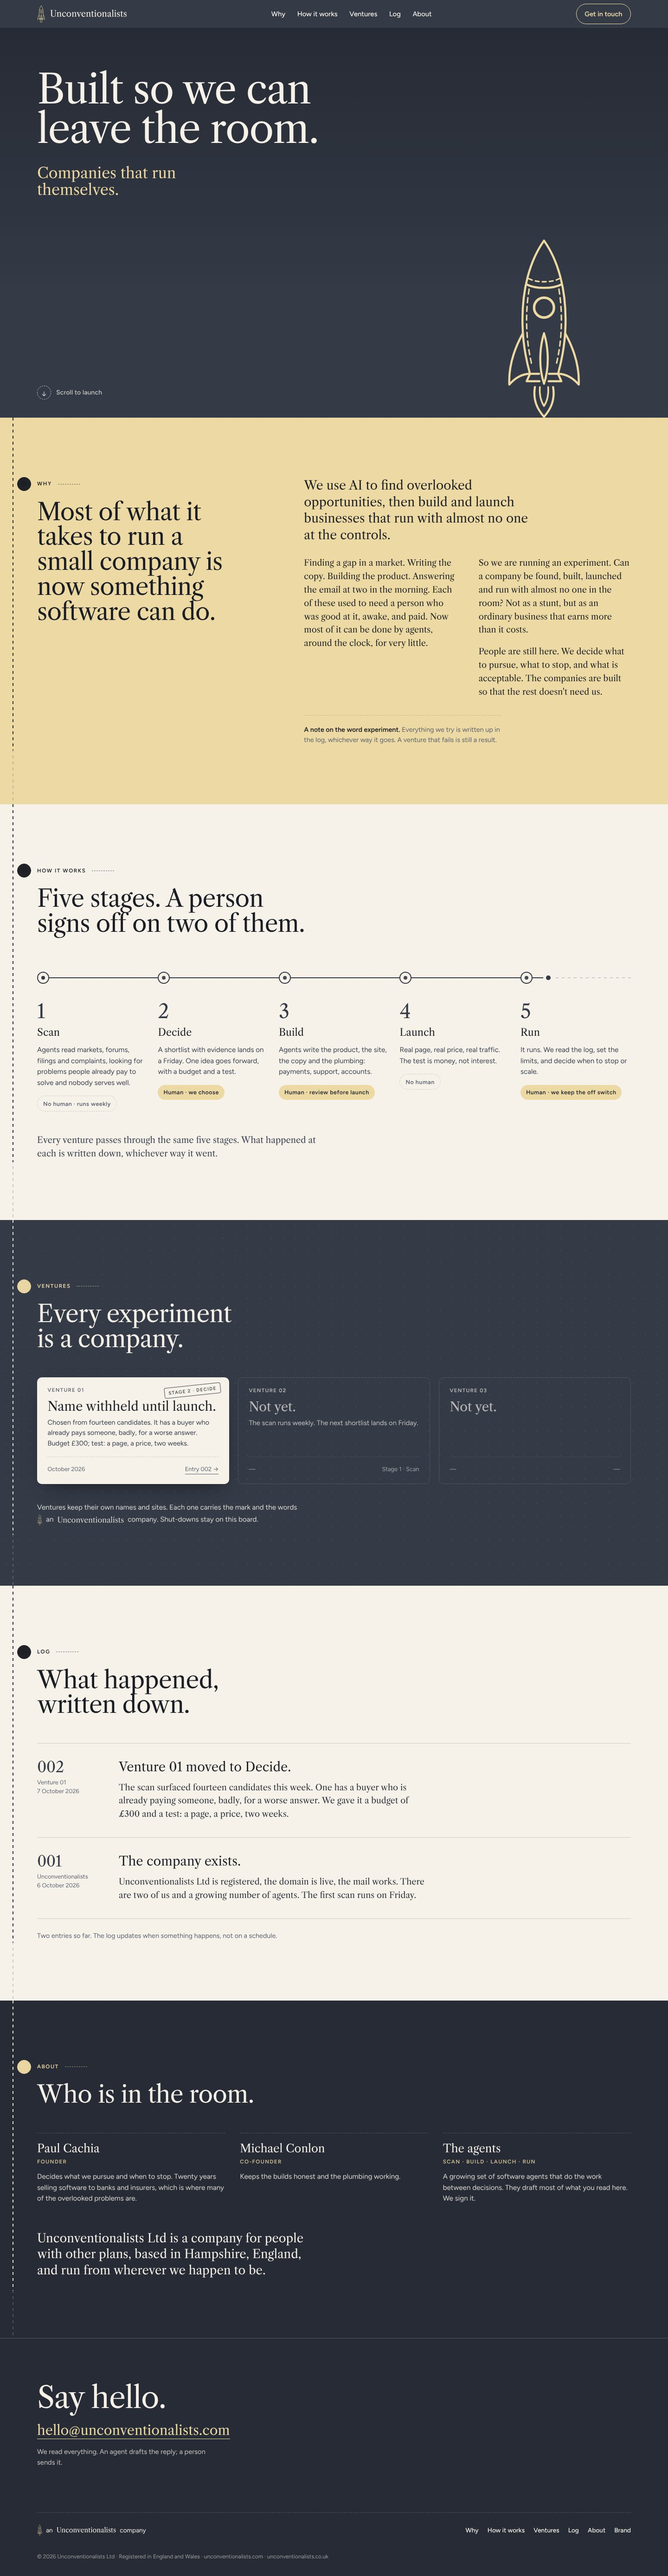
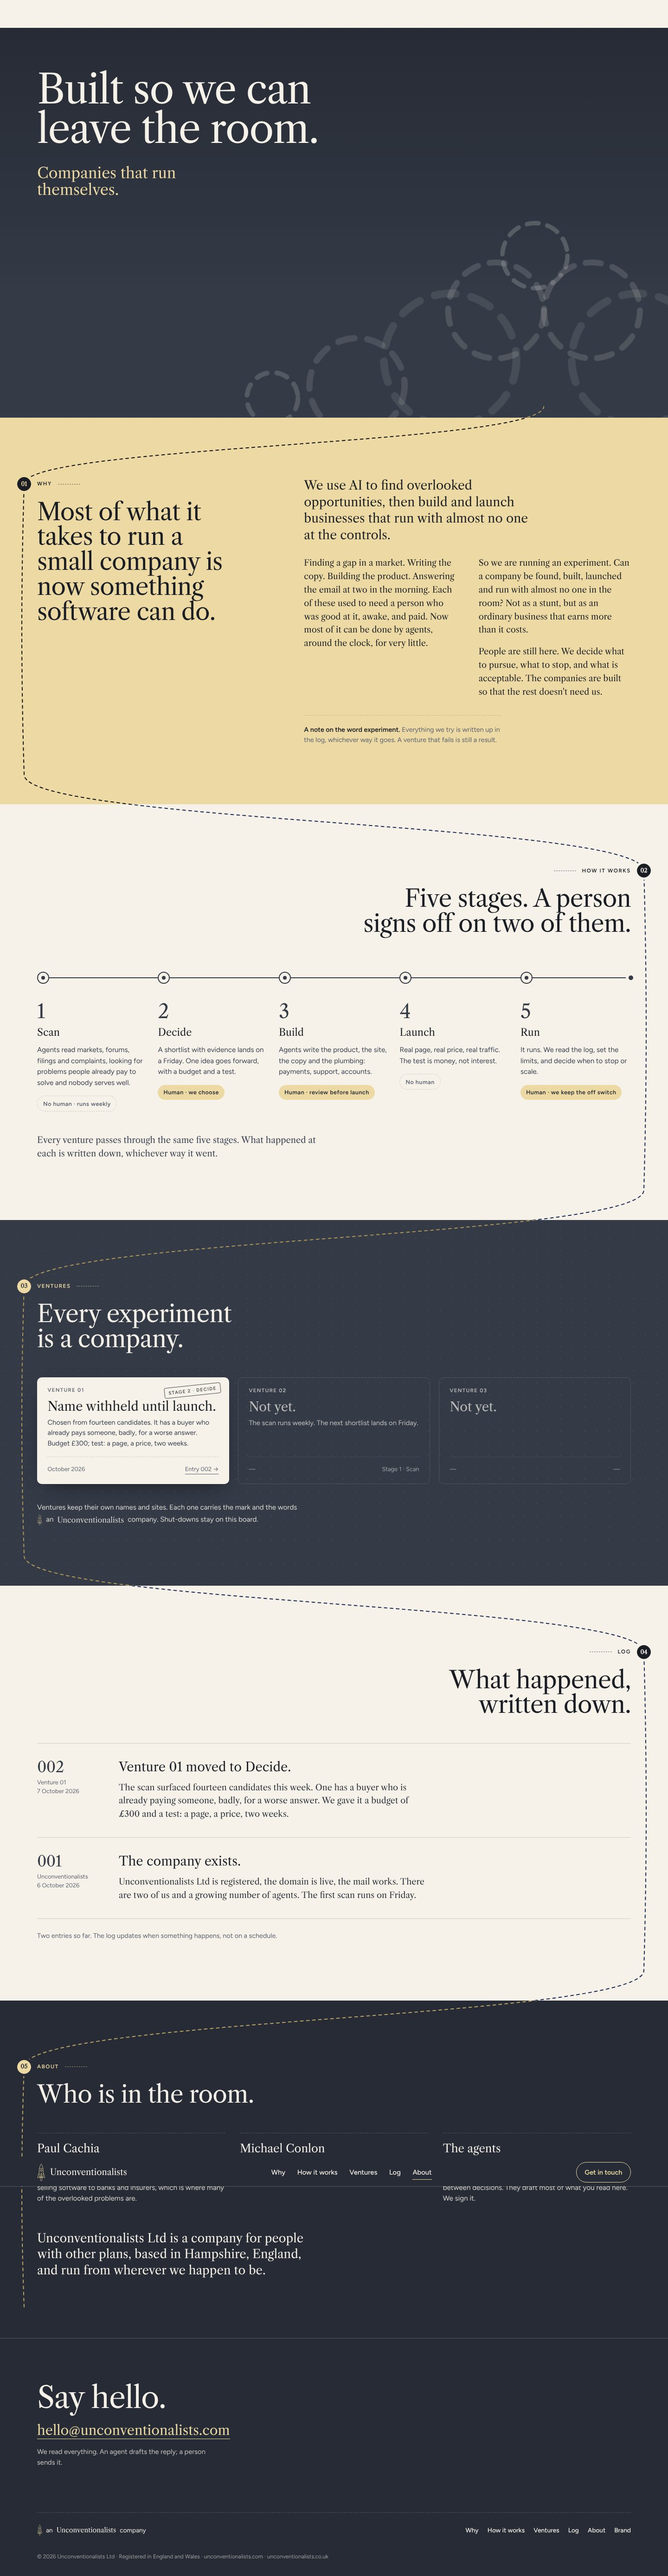
v2: faster lift-off, trail from the flame swooping through section numbers, alternating headers
Claude-Session: https://claude.ai/code/session_0122iuwin3fQth67xmiqk5An

diff --git a/v2/index.html b/v2/index.html
@@ -64,33 +64,51 @@ a{color:inherit;text-decoration:none}
   .scene .world{transform:translate(-256px,-320px) scale(1.8)}
 }
 @media (prefers-reduced-motion:no-preference){
-  .scene.play .ship{animation:lift 5s cubic-bezier(.7,0,.3,1) forwards}
-  .scene.play .ship .flame{transform-origin:100px 364px;animation:flame 5s ease-in-out forwards}
-  .scene.play .jetship{animation:jetship 5s ease-in-out forwards}
-  .scene.play .smoke circle{animation:roll 5s cubic-bezier(.2,.6,.3,1) forwards}
+  .scene.play .ship{animation:lift 3.2s cubic-bezier(.65,0,.3,1) forwards}
+  .scene.play .ship .flame{transform-origin:100px 364px;animation:flame 3.2s ease-in-out forwards}
+  .scene.play .jetship{animation:jetship 3.2s ease-in-out forwards}
+  .scene.play .smoke circle{animation:roll 3.6s cubic-bezier(.2,.6,.3,1) forwards}
+  .scene.done .ship{opacity:0}
   .scene.play .smoke .L{--dir:-1}.scene.play .smoke .R{--dir:1}
-  .scene.play .smoke .d1{animation-delay:.9s}.scene.play .smoke .d2{animation-delay:1.05s}.scene.play .smoke .d3{animation-delay:1.2s}.scene.play .smoke .d4{animation-delay:1.35s}.scene.play .smoke .d5{animation-delay:1.5s}
+  .scene.play .smoke .d1{animation-delay:.2s}.scene.play .smoke .d2{animation-delay:.3s}.scene.play .smoke .d3{animation-delay:.4s}.scene.play .smoke .d4{animation-delay:.5s}.scene.play .smoke .d5{animation-delay:.6s}
   .scene .ship .flame{transform-origin:100px 364px;animation:idle 1.4s ease-in-out infinite alternate}
   @keyframes idle{from{transform:scaleY(.92)}to{transform:scaleY(1.08)}}
-  @keyframes lift{0%,24%{transform:translateY(0)}100%{transform:translateY(-1400px)}}
-  @keyframes flame{0%{transform:scaleY(.7)}24%{transform:scaleY(1.35)}100%{transform:scaleY(2);opacity:0}}
-  @keyframes jetship{0%,16%{opacity:0;transform:scaleY(.2)}26%{opacity:1;transform:scaleY(1)}70%{opacity:.9;transform:scaleY(1.4)}100%{opacity:0;transform:scaleY(1.8)}}
+  @keyframes lift{0%,7%{transform:translateY(0)}100%{transform:translateY(-1500px)}}
+  @keyframes flame{0%{transform:scaleY(.8)}7%{transform:scaleY(1.4)}100%{transform:scaleY(2);opacity:0}}
+  @keyframes jetship{0%,5%{opacity:0;transform:scaleY(.2)}14%{opacity:1;transform:scaleY(1)}70%{opacity:.9;transform:scaleY(1.4)}100%{opacity:0;transform:scaleY(1.8)}}
   @keyframes roll{0%{opacity:0;transform:translateX(0) scale(.2)}18%{opacity:.95}100%{opacity:0;transform:translateX(calc(var(--dir) * var(--dx,160px))) translateY(var(--dy,-10px)) scale(var(--sc,1.6))}}
   .reveal{opacity:0;transform:translateY(22px);transition:opacity .8s cubic-bezier(.2,.6,.2,1),transform .8s cubic-bezier(.2,.6,.2,1)}
   .reveal.in{opacity:1;transform:none}
 }
 
-/* ---------- sections + spine ---------- */
+/* ---------- sections + trail ---------- */
+:root{--lane:var(--gut)}
+main{position:relative}
+.trail{position:absolute;inset:0;width:100%;height:100%;pointer-events:none;z-index:3;overflow:visible;mix-blend-mode:difference;color:#EDD9A3}
+.trail .track{fill:none;stroke:currentColor;stroke-width:2;stroke-dasharray:6 7;opacity:.16}
+.trail .draw{fill:none;stroke:currentColor;stroke-width:2;stroke-dasharray:6 7;opacity:.9;stroke-linecap:round}
+.trail .m{fill:none;stroke:#fff;stroke-width:12}
 section{position:relative;padding-block:clamp(4.5rem,10vw,8rem)}
 section.hero{padding:0}
-.spine,.spine-fill{position:absolute;top:0;left:calc(var(--gut)/2);width:2px;transform:translateX(-50%);background:repeating-linear-gradient(to bottom,currentColor 0 6px,transparent 6px 13px);pointer-events:none}
-.spine{bottom:0;opacity:.2}
-.spine-fill{height:calc(var(--p,0) * 1%);opacity:.9;transition:height .12s linear}
-.eyebrow .num{position:absolute;left:calc(-1*var(--gut)/2);top:50%;width:30px;height:30px;margin:0;transform:translate(-50%,-50%);border-radius:50%;border:1.5px solid currentColor;background:var(--bg);display:grid;place-items:center;font-size:.78rem;opacity:1;transition:background .4s,color .4s}
-section.lit .eyebrow .num{background:currentColor}
+.eyebrow .num{position:absolute;left:calc(-1*var(--lane)/2);top:50%;width:30px;height:30px;margin:0;transform:translate(-50%,-50%);border-radius:50%;border:1.5px solid currentColor;background:var(--bg);display:grid;place-items:center;font-size:.78rem;opacity:1;transition:background .4s,color .4s,box-shadow .4s}
+section.lit .eyebrow .num{background:currentColor;box-shadow:0 0 0 5px var(--bg)}
 section.lit .eyebrow .num span{color:var(--bg)}
-@media (max-width:860px){.spine,.spine-fill{display:none}.eyebrow .num{position:static;transform:none;width:auto;height:auto;border:0;background:none;opacity:.75;font-size:.95rem}section.lit .eyebrow .num{background:none}section.lit .eyebrow .num span{color:inherit}}
-.sec-head{margin-bottom:clamp(2rem,5vw,3.5rem)}
+.sec-head.r{text-align:right}
+.sec-head.r .eyebrow{flex-direction:row-reverse}
+.sec-head.r h2{margin-left:auto}
+.sec-head.r .eyebrow .num{left:auto;right:calc(-1*var(--lane)/2);transform:translate(50%,-50%)}
+@media (max-width:860px){
+  [data-spine]{--lane:2.6rem}
+  [data-spine] .wrap{width:calc(100% - var(--gut) - var(--lane));margin-left:var(--lane);margin-right:0}
+  .eyebrow .num{width:26px;height:26px;font-size:.72rem}
+  .sec-head.r{text-align:left}
+  .sec-head.r .eyebrow{flex-direction:row}
+  .sec-head.r h2{margin-left:0}
+  .sec-head.r .eyebrow .num{right:auto;left:calc(-1*var(--lane)/2);transform:translate(-50%,-50%)}
+}
+.sec-head{margin-bottom:clamp(2rem,5vw,3.5rem);position:relative;z-index:4}
+.lead-col{position:relative;z-index:4}
+.stage{z-index:4}
 .sec-head h2{font-family:var(--serif);font-weight:400;font-size:clamp(1.9rem,4vw,3.2rem);line-height:1.05;letter-spacing:-.015em;max-width:22ch;text-wrap:balance;margin-top:1.1rem}
 .grid2{display:grid;grid-template-columns:minmax(0,5fr) minmax(0,7fr);gap:clamp(1.5rem,5vw,5rem);align-items:start}
 @media (max-width:860px){.grid2{grid-template-columns:1fr}}
@@ -99,7 +117,8 @@ section.lit .eyebrow .num span{color:var(--bg)}
 
 /* ---------- why: butter ---------- */
 .why{--bg:var(--butter);background:var(--butter);color:var(--ink)}
-.why h2{font-family:var(--serif);font-weight:400;font-size:clamp(1.9rem,4vw,3.2rem);line-height:1.05;letter-spacing:-.015em;margin-top:1.1rem;max-width:16ch;text-wrap:balance}
+.why h2{font-family:var(--serif);font-weight:400;font-size:clamp(1.9rem,4vw,3.2rem);line-height:1.05;letter-spacing:-.015em;max-width:16ch;text-wrap:balance}
+.why .sticky{margin-top:1.1rem}
 .why .lede{font-family:var(--serif);font-size:clamp(1.25rem,2.2vw,1.65rem);line-height:1.35;max-width:30ch}
 .why .cols{columns:2;column-gap:3rem;font-family:var(--serif);font-size:1.125rem;line-height:1.6;margin-top:1.8rem}
 .why .cols p{break-inside:avoid}
@@ -127,11 +146,10 @@ section.lit .eyebrow .num span{color:var(--bg)}
 .how .after{margin-top:3rem;font-family:var(--serif);font-size:1.15rem;max-width:52ch;color:#3B4050}
 @media (max-width:860px){
   .traj .line,.traj .line-fill,.traj .dot{display:none}
-  .stages{grid-template-columns:1fr;gap:0;margin-left:12px;padding-left:2rem}
-  .stages::before{content:"";position:absolute;left:0;top:0;bottom:0;width:2px;background:repeating-linear-gradient(to bottom,var(--slate) 0 6px,transparent 6px 13px);opacity:.22}
-  .stages::after{content:"";position:absolute;left:0;top:0;width:2px;height:calc(var(--p,0) * 1%);background:var(--slate);transition:height .12s linear}
+  .stages{grid-template-columns:1fr;gap:0}
   .stage{padding:0 0 2.2rem 0}
-  .stage .node{left:-45px;top:4px}
+  .stage .node{left:calc(-1*var(--lane)/2);top:6px;width:22px;height:22px;transform:translateX(-50%);border-width:1.5px}
+  .stage .node::after{inset:6px}
   .stage .n{font-size:1.8rem;display:inline}
   .stage h3{display:inline;margin:0 0 0 .4rem;vertical-align:baseline}
   .stage p{margin-top:.5rem}
@@ -216,6 +234,7 @@ section.lit .eyebrow .num span{color:var(--bg)}
 </header>
 
 <main>
+<svg class="trail" id="trail" aria-hidden="true"><defs><mask id="tm" maskUnits="userSpaceOnUse" x="0" y="0" width="10" height="10"><path class="m" id="tmask" d=""/></mask></defs><path class="track" id="track" d=""/><path class="draw" id="draw" d="" mask="url(#tm)"/></svg>
 <section class="hero" id="hero" aria-labelledby="h1">
   <div class="wrap">
     <div class="copy">
@@ -242,11 +261,10 @@ section.lit .eyebrow .num span{color:var(--bg)}
 </section>
 
 <section class="why" id="why" aria-labelledby="h-why" data-spine>
-  <div class="spine" aria-hidden="true"></div><div class="spine-fill" aria-hidden="true"></div>
   <div class="wrap grid2">
-    <div class="sticky">
+    <div class="lead-col">
       <p class="eyebrow"><span class="num"><span>01</span></span> Why</p>
-      <h2 id="h-why">Most of what it takes to run a small company is now something software can do.</h2>
+      <div class="sticky"><h2 id="h-why">Most of what it takes to run a small company is now something software can do.</h2></div>
     </div>
     <div class="reveal">
       <p class="lede">We use AI to find overlooked opportunities, then build and launch businesses that run with almost no one at the controls.</p>
@@ -261,9 +279,8 @@ section.lit .eyebrow .num span{color:var(--bg)}
 </section>
 
 <section class="how" id="how" aria-labelledby="h-how" data-spine>
-  <div class="spine" aria-hidden="true"></div><div class="spine-fill" aria-hidden="true"></div>
   <div class="wrap">
-    <div class="sec-head reveal">
+    <div class="sec-head r reveal">
       <p class="eyebrow"><span class="num"><span>02</span></span> How it works</p>
       <h2 id="h-how">Five stages. A person signs off on two of them.</h2>
     </div>
@@ -282,7 +299,6 @@ section.lit .eyebrow .num span{color:var(--bg)}
 </section>
 
 <section class="vent" id="ventures" aria-labelledby="h-vent" data-spine>
-  <div class="spine" aria-hidden="true"></div><div class="spine-fill" aria-hidden="true"></div>
   <div class="wrap">
     <div class="sec-head reveal">
       <p class="eyebrow"><span class="num"><span>03</span></span> Ventures</p>
@@ -298,9 +314,8 @@ section.lit .eyebrow .num span{color:var(--bg)}
 </section>
 
 <section class="log" id="log" aria-labelledby="h-log" data-spine>
-  <div class="spine" aria-hidden="true"></div><div class="spine-fill" aria-hidden="true"></div>
   <div class="wrap">
-    <div class="sec-head reveal">
+    <div class="sec-head r reveal">
       <p class="eyebrow"><span class="num"><span>04</span></span> Log</p>
       <h2 id="h-log">What happened, written down.</h2>
     </div>
@@ -313,7 +328,6 @@ section.lit .eyebrow .num span{color:var(--bg)}
 </section>
 
 <section class="about" id="about" aria-labelledby="h-about" data-spine>
-  <div class="spine" aria-hidden="true"></div><div class="spine-fill" aria-hidden="true"></div>
   <div class="wrap">
     <div class="sec-head reveal">
       <p class="eyebrow"><span class="num"><span>05</span></span> About</p>
@@ -347,38 +361,80 @@ section.lit .eyebrow .num span{color:var(--bg)}
 <script>
 (function(){
   var top=document.getElementById('top'), hero=document.getElementById('hero'), scene=document.getElementById('scene');
-  var launched=false;
-  function play(){scene.classList.remove('play');void scene.offsetWidth;scene.classList.add('play');hero.classList.add('launched');launched=true}
+  var launched=false, doneT=null;
+  function play(){clearTimeout(doneT);scene.classList.remove('play','done');void scene.offsetWidth;scene.classList.add('play');hero.classList.add('launched');launched=true;doneT=setTimeout(function(){scene.classList.add('done');scene.classList.remove('play')},3700)}
   document.getElementById('ship').addEventListener('click',function(e){e.stopPropagation();play()});
   document.getElementById('cue').addEventListener('click',function(){if(!launched)play()});
 
-  var spines=[].slice.call(document.querySelectorAll('[data-spine]'));
+  /* ---- the trail: one dashed path from the rocket's flame through every section number ---- */
+  var mainEl=document.querySelector('main'), trail=document.getElementById('trail'), track=document.getElementById('track'), draw=document.getElementById('draw'), tmask=document.getElementById('tmask'), tmaskEl=document.getElementById('tm');
+  var sections=[].slice.call(document.querySelectorAll('[data-spine]'));
   var traj=document.getElementById('traj'), stages=document.getElementById('stages');
-  var ticking=false;
+  var N=700, ys=[], L=0, nodes=[], mainTop=0, lastStart=null, W=0;
   function clamp(v){return v<0?0:v>1?1:v}
+  function rel(r,m){return {x:r.left-m.left+r.width/2,y:r.top-m.top+r.height/2}}
+  function layout(){
+    var mob=matchMedia('(max-width:860px)').matches;
+    var m=mainEl.getBoundingClientRect(); W=mainEl.offsetWidth; var H=mainEl.offsetHeight; mainTop=m.top+scrollY;
+    trail.setAttribute('viewBox','0 0 '+W+' '+H); tmaskEl.setAttribute('width',W); tmaskEl.setAttribute('height',H);
+    var start;
+    if(scene.classList.contains('play') && lastStart){start=lastStart}
+    else{var u=scene.querySelector('use'); var ur=u.getBoundingClientRect(); start={x:ur.left-m.left+ur.width/2,y:ur.bottom-m.top-ur.height*0.06}; lastStart=start}
+    var pts=[{p:start}];
+    nodes=[];
+    sections.forEach(function(sec){
+      var n=sec.querySelector('.eyebrow .num'); var p=rel(n.getBoundingClientRect(),m);
+      nodes.push({el:sec,p:p}); pts.push({p:p,node:true});
+      if(mob && sec.id==='how'){[].slice.call(sec.querySelectorAll('.stage .node')).forEach(function(nd){var q=rel(nd.getBoundingClientRect(),m);nodes.push({el:nd.parentNode,p:q});pts.push({p:q,node:true})})}
+      var r=sec.getBoundingClientRect(); var pad=parseFloat(getComputedStyle(sec).paddingBottom);
+      pts.push({p:{x:p.x,y:r.bottom-m.top-pad*0.5},exit:true});
+    });
+    pts.sort(function(a,b){return a.p.y-b.p.y});
+    var d='M'+pts[0].p.x.toFixed(1)+' '+pts[0].p.y.toFixed(1);
+    for(var i=1;i<pts.length;i++){
+      var a=pts[i-1].p,b=pts[i].p;
+      if(Math.abs(a.x-b.x)<2){
+        if(b.y-a.y>140){var bow=(b.x<W/2?-1:1)*10; d+=' Q'+(b.x+bow).toFixed(1)+' '+((a.y+b.y)/2).toFixed(1)+' '+b.x.toFixed(1)+' '+b.y.toFixed(1)}
+        else d+=' L'+b.x.toFixed(1)+' '+b.y.toFixed(1);
+      } else {
+        var my=(a.y+b.y)/2; d+=' C'+a.x.toFixed(1)+' '+my.toFixed(1)+' '+b.x.toFixed(1)+' '+my.toFixed(1)+' '+b.x.toFixed(1)+' '+b.y.toFixed(1);
+      }
+    }
+    track.setAttribute('d',d); draw.setAttribute('d',d); tmask.setAttribute('d',d);
+    L=draw.getTotalLength(); tmask.style.strokeDasharray=L+' '+L;
+    ys=[]; var best=nodes.map(function(){return {d:1e12,s:0}});
+    for(var k=0;k<=N;k++){var q=draw.getPointAtLength(k*L/N); ys.push(q.y);
+      for(var j=0;j<nodes.length;j++){var dx=q.x-nodes[j].p.x,dy=q.y-nodes[j].p.y,dd=dx*dx+dy*dy; if(dd<best[j].d){best[j].d=dd;best[j].s=k*L/N}}}
+    nodes.forEach(function(n,j){n.s=best[j].s});
+  }
+  var ticking=false;
   function update(){
     ticking=false;
-    var y=scrollY, vh=innerHeight, probe=y+vh*0.62;
+    var y=scrollY, vh=innerHeight;
     top.classList.toggle('scrolled',y>8);
     if(!launched && y>24) play();
-    spines.forEach(function(s){
-      var r=s.getBoundingClientRect(), t=r.top+y, h=r.height;
-      var p=clamp((probe-t)/h)*100;
-      s.querySelector('.spine-fill').style.setProperty('--p',p.toFixed(1));
-      s.classList.toggle('lit',p>4);
-    });
-    if(traj){
+    if(L>0){
+      var probe=y+vh*0.62-mainTop, lo=0, hi=N;
+      while(lo<hi){var mid=(lo+hi+1)>>1; if(ys[mid]<=probe) lo=mid; else hi=mid-1}
+      var sLen=(ys[0]>probe)?0:lo*L/N;
+      tmask.style.strokeDashoffset=(L-sLen);
+      nodes.forEach(function(n){var on=sLen>=n.s-1; if(n.el.classList.contains('stage')) n.el.classList.toggle('in',on); else n.el.classList.toggle('lit',on)});
+    }
+    if(traj && !matchMedia('(max-width:860px)').matches){
       var r=traj.getBoundingClientRect(), t=r.top+y;
       var p=clamp((y+vh*0.8-t)/(r.height+vh*0.2));
       traj.style.setProperty('--p',(p*100).toFixed(1));
-      stages.style.setProperty('--p',(p*100).toFixed(1));
       var items=stages.children;
       for(var i=0;i<items.length;i++){items[i].classList.toggle('in',p>=i/(items.length-1)-0.02)}
     }
   }
   addEventListener('scroll',function(){if(!ticking){ticking=true;requestAnimationFrame(update)}},{passive:true});
-  addEventListener('resize',update);
-  update();
+  function relayout(){layout();update()}
+  addEventListener('resize',relayout);
+  if('ResizeObserver' in window){var ro=new ResizeObserver(function(){relayout()}); ro.observe(mainEl)}
+  if(document.fonts && document.fonts.ready){document.fonts.ready.then(relayout)}
+  addEventListener('load',relayout);
+  relayout();
 
   if('IntersectionObserver' in window){
     var io=new IntersectionObserver(function(es){es.forEach(function(e){if(e.isIntersecting){e.target.classList.add('in');io.unobserve(e.target)}})},{threshold:.1,rootMargin:'0px 0px -6% 0px'});

diff --git a/v2/preview.html b/v2/preview.html
@@ -1,6 +1,5 @@
 <!doctype html>
-<html lang="en"><head><meta charset="utf-8"><meta name="viewport" content="width=device-width,initial-scale=1"><meta name="robots" content="noindex">
-<title>Website Preview</title>
+<html lang="en"><head><meta charset="utf-8"><meta name="viewport" content="width=device-width,initial-scale=1"><meta name="robots" content="noindex"><title>Website Preview</title>
 <style>
 /* Layout: a toolbar, then the live site in a phone frame and a desktop frame side by side; a static-render fallback sits below. */
 :root{--bg:#F3F2EE;--fg:#1A1D23;--muted:#6B6E78;--rule:#D8D7D1;--panel:#FFFFFF;--accent:#343A46;--bezel:#1A1D23}
